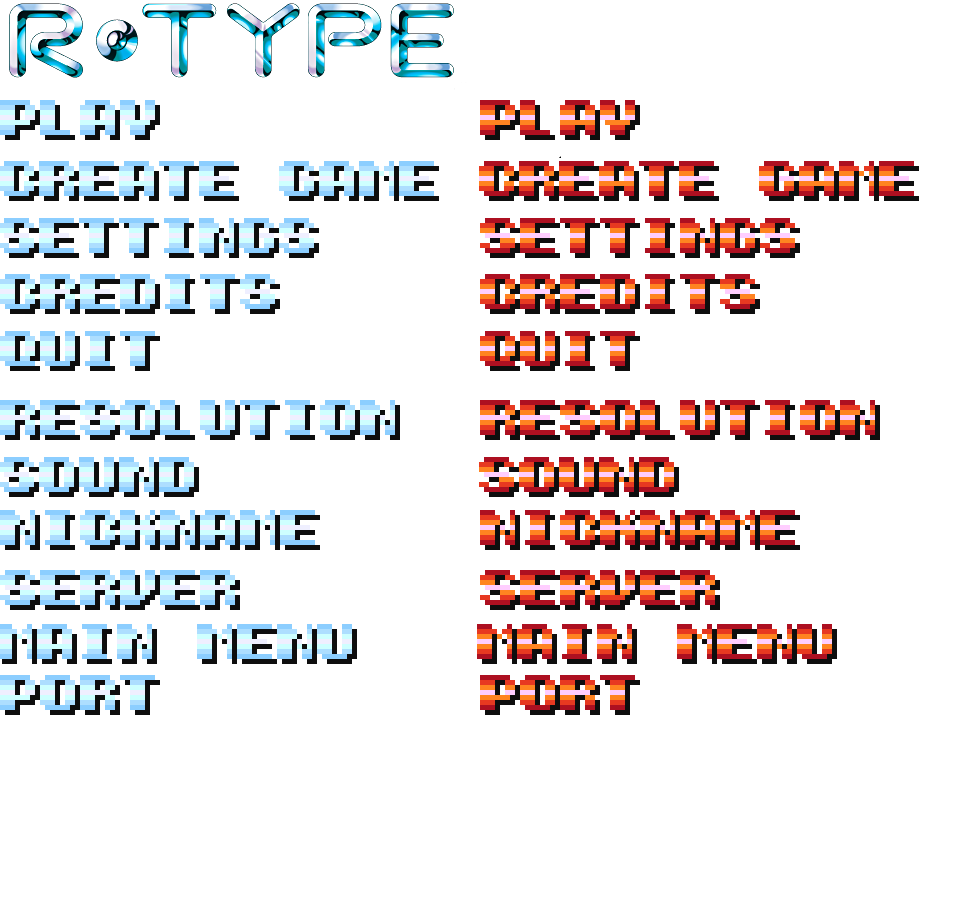
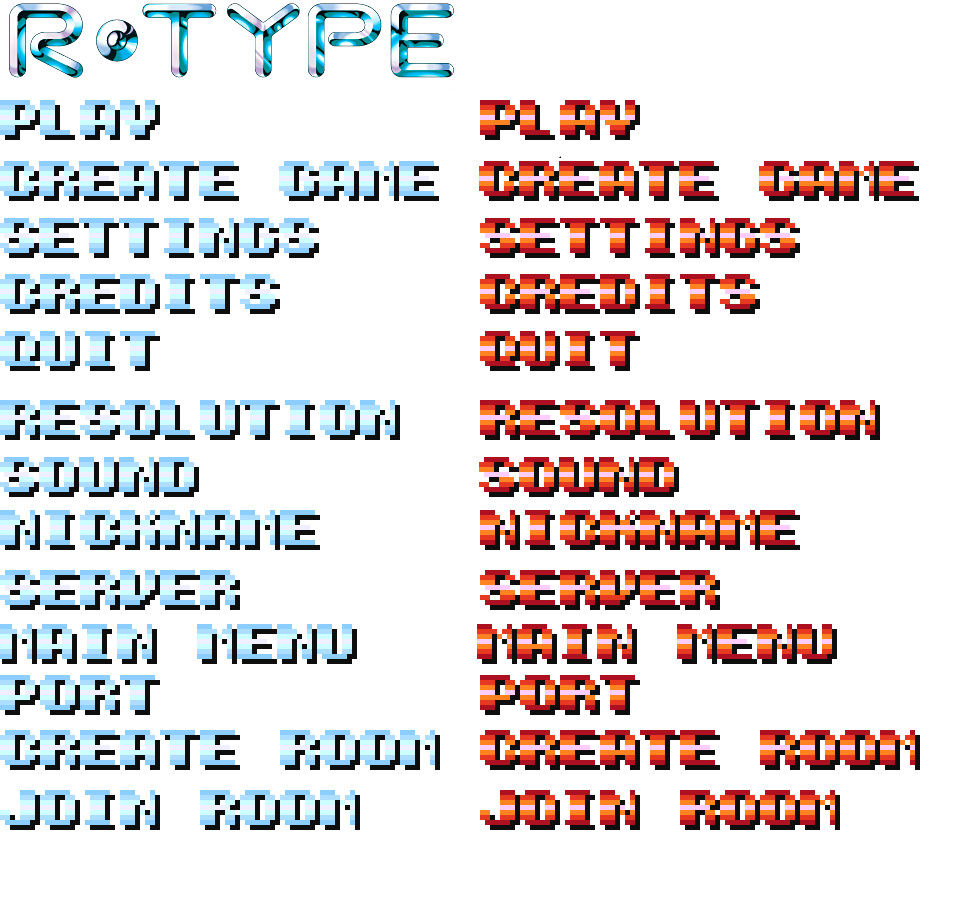
réalisation d'un menu pour creer / rejoindre une room

Changed region(s): [[0.5, 0.8089, 0.9688, 0.9333], [0.0, 0.8089, 0.4688, 0.9333]]

diff --git a/Proj/RType/client/RoomMenu.cpp b/Proj/RType/client/RoomMenu.cpp
@@ -1,13 +1,14 @@
-#include "PlayMenu.h"
+#include <iostream>
+#include "RoomMenu.h"
 #include "RoomButton.h"
 #include "SystemException.h"
 #include "ClientCommunication.cpp"
 #include "CreateRoomButton.h"
 #include "JoinRoomButton.h"
 
-template class ClientCommunication<PlayMenu>;
+template class ClientCommunication<RoomMenu>;
 
-PlayMenu::PlayMenu(sf::RenderWindow *window, SpriteManager *spritemgr) : Menu(window, spritemgr)
+RoomMenu::RoomMenu(sf::RenderWindow *window, SpriteManager *spritemgr) : Menu(window, spritemgr)
 {
 	Packet			p;
 	unsigned short	res[2] = {1600, 900};
@@ -17,9 +18,9 @@ PlayMenu::PlayMenu(sf::RenderWindow *window, SpriteManager *spritemgr) : Menu(wi
 	this->_buttons.resize(this->_size);
 	this->_spritemgr = spritemgr;
 	this->_comm.setHandler(this);
-	this->_comm.setCallback(Opcodes::roomList, &PlayMenu::parseRoomList);
-//	this->_comm.setCallback(Opcodes::startLoading, &PlayMenu::handleStartLoading);
-	this->_comm.setDefaultCallback(&PlayMenu::defaultCallback);
+	this->_comm.setCallback(Opcodes::roomList, &RoomMenu::parseRoomList);
+//	this->_comm.setCallback(Opcodes::startLoading, &RoomMenu::handleStartLoading);
+	this->_comm.setDefaultCallback(&RoomMenu::defaultCallback);
 	try
 	{
 		this->_tcpsock = new TCPSocketClient("127.0.0.1", 1234);
@@ -35,24 +36,34 @@ PlayMenu::PlayMenu(sf::RenderWindow *window, SpriteManager *spritemgr) : Menu(wi
 		this->_comm.TCPsayHello(p, "ledp", res);
 		this->_tcpsock->send(p);
 	}
+	std::cout << "psyduk" << std::endl;
 }
 
-void			PlayMenu::defaultCallback(char opcode, IReadableSocket& sock)
+void			RoomMenu::defaultCallback(char opcode, IReadableSocket& sock)
 {
 	//std::cout << "default callbak opcode :" << (int)opcode << std::endl;
 }
 
-void			PlayMenu::parseRoomList(void *data)
+void			RoomMenu::parseRoomList(void *data)
 {
+	int	i = 0;
 	std::list<s_room_info>	*list = static_cast<std::list<s_room_info>*>(data);
 
 	this->_size = 2;
 	this->_buttons.resize(this->_size);
 	this->_buttons[0] = new CreateRoomButton(this->_spritemgr, this->_tcpsock);
 	this->_buttons[1] = new JoinRoomButton(this->_spritemgr, this->_tcpsock, *list);
+	
+	/*this->_size = list->size();
+	this->_buttons.resize(this->_size);
+	for (std::list<s_room_info>::iterator it = list->begin(); it != list->end(); it++)
+	{
+		this->_buttons[i] = new RoomButton(this->_spritemgr, "1 room", this->_tcpsock, it->id, this->_udpport);
+		i = i + 1;
+	}*/
 }
 
-void	PlayMenu::childAction()
+void	RoomMenu::childAction()
 {
 	if (this->_tcp_success && this->_size == 0)
 	{
@@ -60,6 +71,6 @@ void	PlayMenu::childAction()
 	}
 }
 
-PlayMenu::~PlayMenu(void)
+RoomMenu::~RoomMenu(void)
 {
 }

diff --git a/Proj/RType/client/CreateRoomButton.cpp b/Proj/RType/client/CreateRoomButton.cpp
@@ -1,0 +1,54 @@
+#include "CreateRoomButton.h"
+#include "ClientCommunication.cpp"
+#include "GameLoop.h"
+
+template class ClientCommunication<CreateRoomButton>;
+
+CreateRoomButton::CreateRoomButton(SpriteManager *sprmgr, TCPSocketClient *tcpsock)
+{
+	this->setSprite(sprmgr->getSpritebyId(CREATE_ROOM));
+	this->setSpriteOn(sprmgr->getSpritebyId(CREATE_ROOM_ON));
+	this->_sett = new SettingsParser("assets/settings.ini");
+	//this->_comm.setHandler(this);
+	this->_roomname = "New Room";
+	this->_tcpsock = tcpsock;
+}
+
+void	CreateRoomButton::action(sf::Keyboard::Key key, sf::RenderWindow *window, bool *running)
+{
+	if (key == sf::Keyboard::Return)
+	{
+		this->_comm.TCPsetRoom(this->_p, this->_roomname.c_str());
+		this->_tcpsock->send(this->_p);
+		std::cout << "room button action" << std::endl;
+		GameLoop	loop(window, this->_tcpsock); //virer dernier param
+		*running = false;
+		loop.mainLoop();
+	}
+	else
+		this->_txthandler.keyPressed(key, &this->_roomname);
+}
+
+void	CreateRoomButton::extraDisplay(unsigned int pos, unsigned int max, sf::RenderWindow *window)
+{
+	sf::Font font;
+	sf::Text text;
+
+	if (!font.loadFromFile("assets/arial.ttf"))
+	{
+	}
+	text.setFont(font);
+	text.setString(this->_roomname);
+	text.setCharacterSize(30);
+	if (this->_highlight)
+		text.setColor(sf::Color::Magenta);
+	else
+		text.setColor(sf::Color::Cyan);
+	text.setPosition(static_cast<float>(SIZEX / 2) + 250,
+		250 + static_cast<float>(pos) * ((SIZEY - 250) / static_cast<float>(max)));
+	window->draw(text);
+}
+
+CreateRoomButton::~CreateRoomButton(void)
+{
+}

diff --git a/Proj/RType/client/SpriteManager.cpp b/Proj/RType/client/SpriteManager.cpp
@@ -30,7 +30,7 @@ SpriteManager::SpriteManager(void)
 	{
 		this->_sprites[i].setTexture(this->_shiptexture);
 	}
-	for (int i = GAME_LOGO ; i <= BACK_MAIN_ON ; i++)
+	for (int i = GAME_LOGO ; i <= JOIN_ROOM_ON ; i++)
 	{
 		this->_sprites[i].setTexture(this->_menutexture);
 	}
@@ -63,12 +63,16 @@ SpriteManager::SpriteManager(void)
 	this->_sprites[SETT_SRVL].setTextureRect(sf::IntRect(0, 560, 450, 54));
 	this->_sprites[BACK_MAIN].setTextureRect(sf::IntRect(0, 620, 450, 54));
 	this->_sprites[SETT_PORT].setTextureRect(sf::IntRect(0, 675, 450, 54));
+	this->_sprites[CREATE_ROOM].setTextureRect(sf::IntRect(0, 730, 450, 54));
+	this->_sprites[JOIN_ROOM].setTextureRect(sf::IntRect(0, 790, 450, 54));
 	this->_sprites[SETT_RESO_ON].setTextureRect(sf::IntRect(480, 400, 450, 54));
 	this->_sprites[SETT_SOUN_ON].setTextureRect(sf::IntRect(480, 450, 450, 54));
 	this->_sprites[SETT_NICK_ON].setTextureRect(sf::IntRect(480, 510, 450, 54));
 	this->_sprites[SETT_SRVL_ON].setTextureRect(sf::IntRect(480, 560, 450, 54));
 	this->_sprites[BACK_MAIN_ON].setTextureRect(sf::IntRect(480, 620, 450, 54));
 	this->_sprites[SETT_PORT_ON].setTextureRect(sf::IntRect(480, 675, 450, 54));
+	this->_sprites[CREATE_ROOM_ON].setTextureRect(sf::IntRect(480, 730, 450, 54));
+	this->_sprites[JOIN_ROOM_ON].setTextureRect(sf::IntRect(480, 790, 450, 54));
 }
 
 SpriteManager::~SpriteManager(void)

diff --git a/Proj/RType/client/RoomButton.cpp b/Proj/RType/client/RoomButton.cpp
@@ -4,13 +4,11 @@
 
 template class ClientCommunication<RoomButton>;
 
-RoomButton::RoomButton(SpriteManager *sprmgr, std::string name, TCPSocketClient *tcpsock, int id, short udpport) //virer dernier param
+RoomButton::RoomButton(SpriteManager *sprmgr, std::string name, TCPSocketClient *tcpsock, int id)
 {
-	this->_udpport = udpport;
 	this->_name = name;
 	this->_roomId = id;
 	this->_tcpsock = tcpsock;
-	//this->_comm.setCallback(Opcodes::startLoading, &RoomButton::handleStartLoading);
 }
 
 void	RoomButton::action(sf::Keyboard::Key, sf::RenderWindow *window, bool *running)
@@ -19,7 +17,7 @@ void	RoomButton::action(sf::Keyboard::Key, sf::RenderWindow *window, bool *runni
 	this->_tcpsock->send(this->_p);
 
 	std::cout << "room button action" << std::endl;
-	GameLoop	loop(window, this->_tcpsock, 1234); //virer dernier param
+	GameLoop	loop(window, this->_tcpsock); //virer dernier param
 
 	*running = false;
 	loop.mainLoop();

diff --git a/Proj/RType/client/JoinRoomButton.cpp b/Proj/RType/client/JoinRoomButton.cpp
@@ -1,0 +1,29 @@
+#include "JoinRoomButton.h"
+#include "JoinRoomMenu.h"
+#include "ClientCommunication.cpp"
+#include "GameLoop.h"
+
+template class ClientCommunication<JoinRoomButton>;
+
+JoinRoomButton::JoinRoomButton(SpriteManager *sprmgr, TCPSocketClient *tcpsock, std::list<s_room_info> list)
+{
+	this->setSprite(sprmgr->getSpritebyId(JOIN_ROOM));
+	this->setSpriteOn(sprmgr->getSpritebyId(JOIN_ROOM_ON));
+	this->_sett = new SettingsParser("assets/settings.ini");
+	//this->_comm.setHandler(this);
+	this->_roomname = "New Room";
+	this->_tcpsock = tcpsock;
+	this->_list = list;
+	this->_sprmgr = sprmgr;
+}
+
+void	JoinRoomButton::action(sf::Keyboard::Key key, sf::RenderWindow *window, bool *running)
+{
+	JoinRoomMenu	menu(window, this->_sprmgr, this->_tcpsock, &this->_list);
+
+	menu.menuLoop();
+}
+
+JoinRoomButton::~JoinRoomButton(void)
+{
+}

diff --git a/Proj/RType/client/JoinRoomButton.h b/Proj/RType/client/JoinRoomButton.h
@@ -1,0 +1,26 @@
+#pragma once
+#include <string>
+#include <list>
+#include "Button.h"
+#include "SettingsParser.h"
+#include "TextHandler.h"
+#include "TCPSocketClient.h"
+#include "ClientCommunication.hpp"
+
+class JoinRoomButton :
+	public Button
+{
+	sf::Sprite								_sprite;
+	SettingsParser							*_sett;
+	std::string								_roomname;
+	TextHandler								_txthandler;
+	ClientCommunication<JoinRoomButton>		_comm;
+	TCPSocketClient							*_tcpsock;
+	Packet									_p;
+	std::list<s_room_info>					_list;
+	SpriteManager							*_sprmgr;
+public:
+	JoinRoomButton(SpriteManager *, TCPSocketClient *, std::list<s_room_info>);
+	virtual void	action(sf::Keyboard::Key, sf::RenderWindow *, bool *);
+	~JoinRoomButton(void);
+};

diff --git a/Proj/RType/client/CreateRoomButton.h b/Proj/RType/client/CreateRoomButton.h
@@ -1,0 +1,24 @@
+#pragma once
+#include <string>
+#include "Button.h"
+#include "SettingsParser.h"
+#include "TextHandler.h"
+#include "TCPSocketClient.h"
+#include "ClientCommunication.hpp"
+
+class CreateRoomButton :
+	public Button
+{
+	sf::Sprite								_sprite;
+	SettingsParser							*_sett;
+	std::string								_roomname;
+	TextHandler								_txthandler;
+	ClientCommunication<CreateRoomButton>	_comm;
+	TCPSocketClient							*_tcpsock;
+	Packet									_p;
+public:
+	CreateRoomButton(SpriteManager *, TCPSocketClient *);
+	virtual void	action(sf::Keyboard::Key, sf::RenderWindow *, bool *);
+	virtual void	extraDisplay(unsigned int, unsigned int, sf::RenderWindow *);
+	~CreateRoomButton(void);
+};

diff --git a/Proj/RType/client/JoinRoomMenu.cpp b/Proj/RType/client/JoinRoomMenu.cpp
@@ -1,0 +1,24 @@
+#include "JoinRoomMenu.h"
+#include "RoomButton.h"
+#include "SystemException.h"
+#include "ClientCommunication.cpp"
+
+template class ClientCommunication<JoinRoomMenu>;
+
+JoinRoomMenu::JoinRoomMenu(sf::RenderWindow *window, SpriteManager *spritemgr, TCPSocketClient *socket, std::list<s_room_info> *list) : Menu(window, spritemgr)
+{
+	int	i = 0;
+
+	this->_size = list->size();
+	this->_buttons.resize(this->_size);
+
+	for (std::list<s_room_info>::iterator it = list->begin(); it != list->end(); it++)
+	{
+		this->_buttons[i] = new RoomButton(this->_spritemgr, "1 room", socket, it->id);
+		i = i + 1;
+	}
+}
+
+JoinRoomMenu::~JoinRoomMenu(void)
+{
+}

diff --git a/Proj/RType/client/GameLoop.cpp b/Proj/RType/client/GameLoop.cpp
@@ -7,7 +7,7 @@
 
 template class ClientCommunication<GameLoop>;
 
-GameLoop::GameLoop(sf::RenderWindow *window, TCPSocketClient* tcpsock, short udpport)
+GameLoop::GameLoop(sf::RenderWindow *window, TCPSocketClient* tcpsock)
 {
 	this->_window = window;
 	this->_udpsock = NULL;
@@ -38,7 +38,6 @@ void	GameLoop::drawScreenState(void)
 			this->displaySprite(it->second._posX, it->second._posY, static_cast<eSprites>(it->first));
 			++it;
 		}
-		//std::cout << "--- END SCREEN STATE ---" << std::endl;
 	}
 }
 

diff --git a/Proj/RType/client/RoomMenu.h b/Proj/RType/client/RoomMenu.h
@@ -1,0 +1,19 @@
+#pragma once
+#include "Menu.h"
+class RoomMenu :
+	public Menu
+{
+private:
+	ClientCommunication<RoomMenu>	_comm;
+	TCPSocketClient					*_tcpsock;
+	bool							_tcp_success;
+	short							_udpport;
+public:
+	RoomMenu(sf::RenderWindow *, SpriteManager *);
+	virtual void					childAction();
+	void							parseRoomList(void *);
+	//void							handleStartLoading(void *);
+	void							defaultCallback(char, IReadableSocket &);
+	~RoomMenu(void);
+};
+

diff --git a/Proj/RType/client/RoomButton.h b/Proj/RType/client/RoomButton.h
@@ -15,7 +15,7 @@ class RoomButton :
 	TCPSocketClient					*_tcpsock;
 	Packet							_p;
 public:
-	RoomButton(SpriteManager *, std::string, TCPSocketClient*, int, short);
+	RoomButton(SpriteManager *, std::string, TCPSocketClient*, int);
 	virtual void		action(sf::Keyboard::Key, sf::RenderWindow *, bool *);
 	virtual void		displayButton(unsigned int, unsigned int, sf::RenderWindow *);
 	~RoomButton(void);

diff --git a/Proj/RType/client/GameLoop.h b/Proj/RType/client/GameLoop.h
@@ -27,7 +27,7 @@ private:
 	s_screen_state					_screenstate;
 	
 public:
-	GameLoop(sf::RenderWindow*, TCPSocketClient*, short);
+	GameLoop(sf::RenderWindow*, TCPSocketClient*);
 	void	manageEvent(bool *, PlayerShip *);
 	void	openBackMenu(bool *);
 	void	drawBackground(void);
